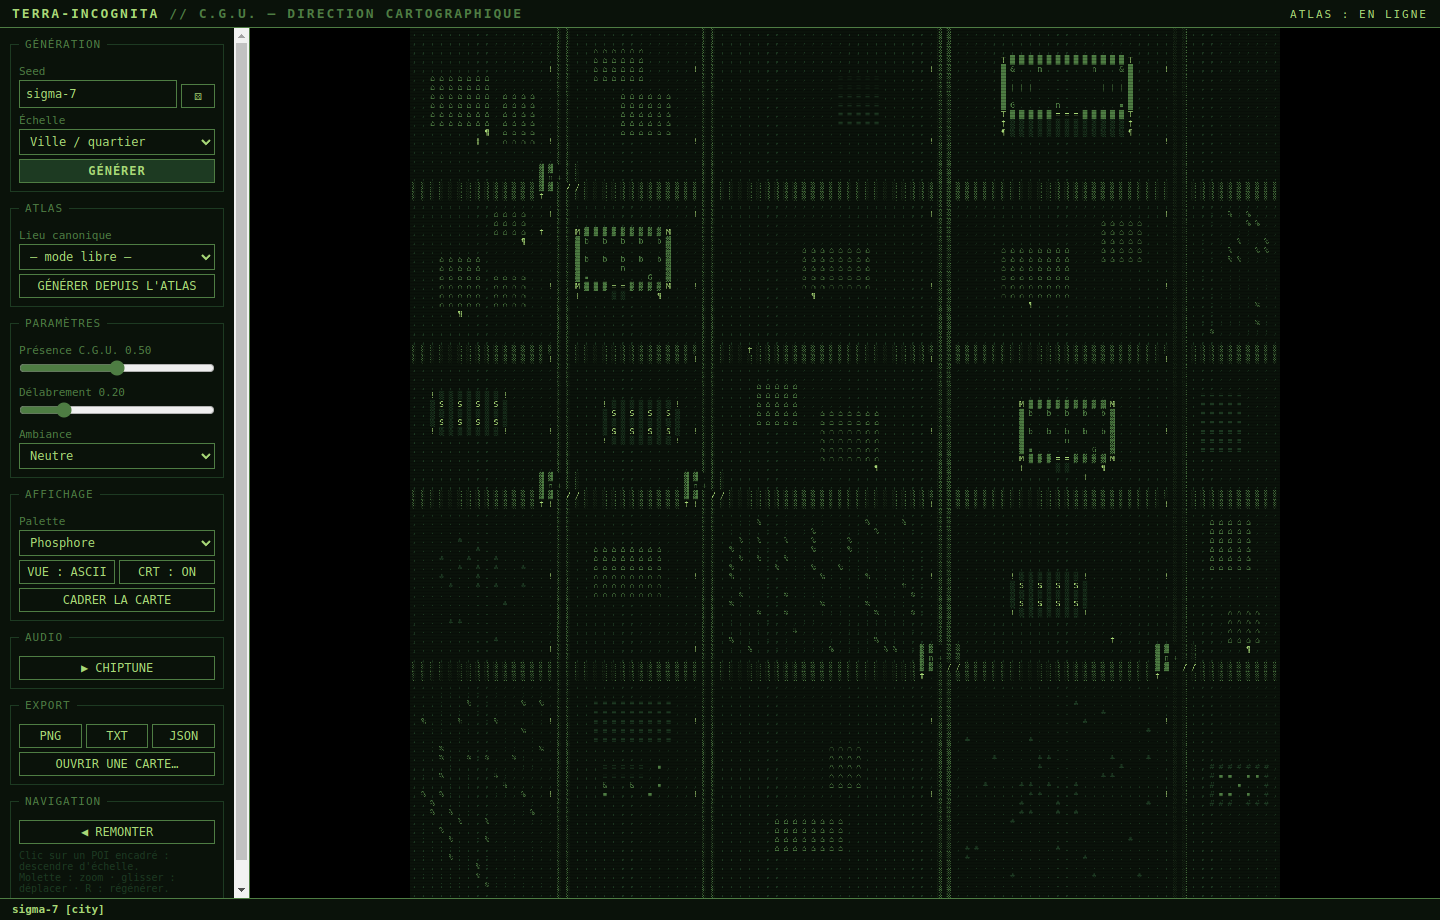
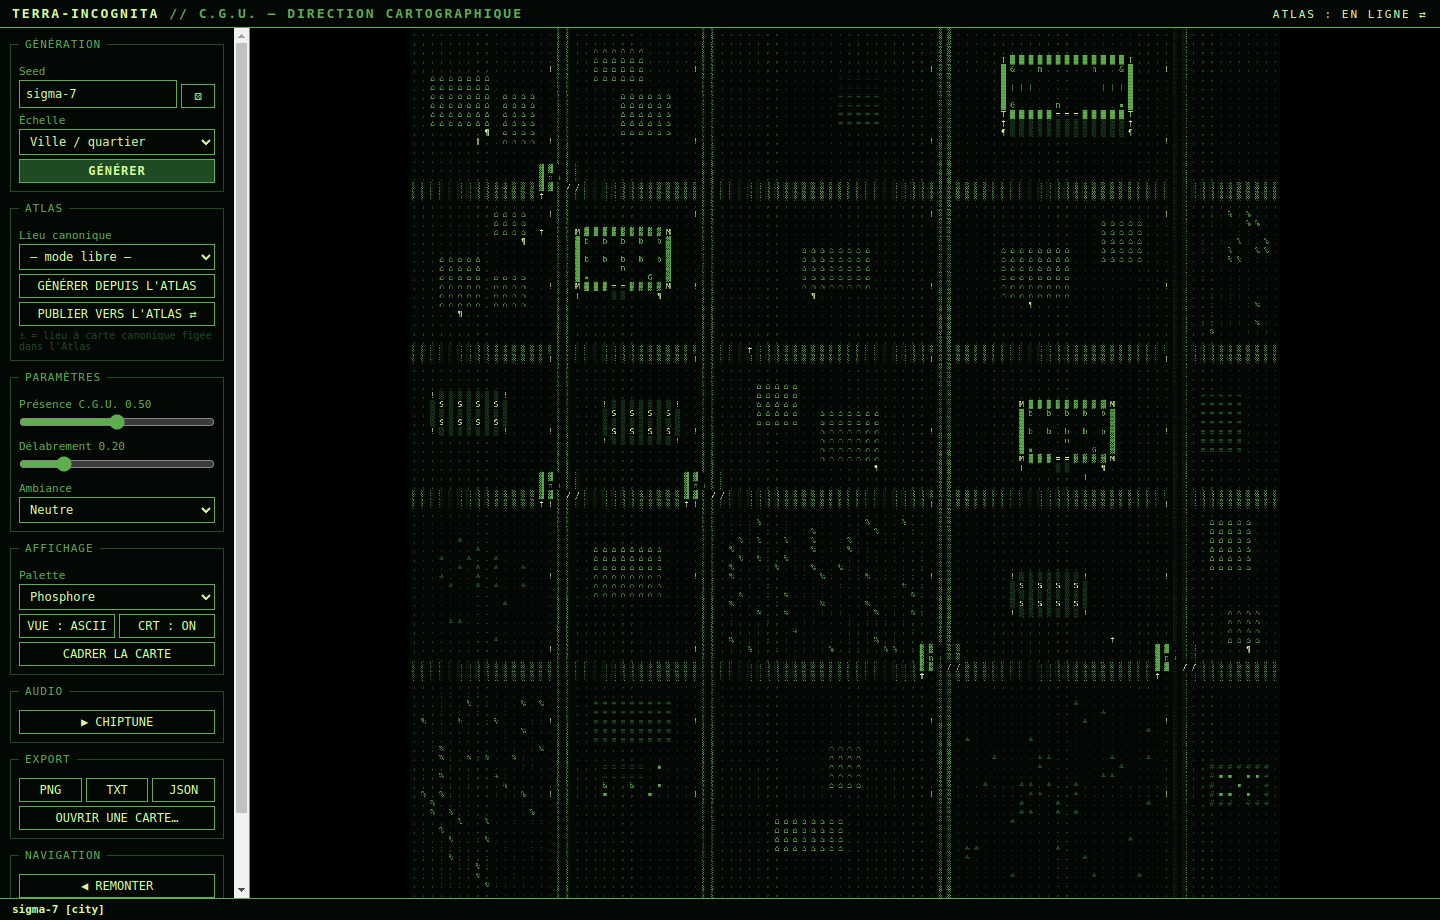
Contraste renforcé : palettes écartées + scanlines CRT allégées
Les 4 tons de chaque palette couvrent une plage plus large (sombres
plus profonds, clairs plus lumineux) — bâtiments, routes et structures
se détachent nettement. Scanlines 0.22 → 0.13. Captures README refaites.

diff --git a/src/core/palettes.ts b/src/core/palettes.ts
@@ -4,12 +4,12 @@ import type { PaletteName } from "../shared/types";
 export type Palette = readonly [string, string, string, string];
 
 export const PALETTES: Record<PaletteName, Palette> = {
-  // Vert CRT phosphore — écran radar C.G.U.
-  phosphore: ["#0a120a", "#1d3a22", "#4e7d43", "#a8d977"],
+  // Vert CRT phosphore — écran radar C.G.U. Tons écartés pour un contraste franc.
+  phosphore: ["#040804", "#1e4a24", "#5fae4e", "#d8ff9a"],
   // Sépia — carte d'état-major jaunie, encre brune.
-  sepia: ["#241809", "#54402a", "#a07d4a", "#e6d3a3"],
+  sepia: ["#170e04", "#5e4223", "#c09154", "#ffedc0"],
   // Blueprint — plan technique blanc sur bleu.
-  blueprint: ["#0b1a30", "#1f4066", "#5585b5", "#dbe9f4"],
+  blueprint: ["#040d1c", "#1d4a7d", "#6fa8d8", "#f4faff"],
 };
 
 export const PALETTE_NAMES: PaletteName[] = ["phosphore", "sepia", "blueprint"];

diff --git a/src/renderer/index.html b/src/renderer/index.html
@@ -76,7 +76,7 @@
     position: absolute;
     inset: 0;
     pointer-events: none;
-    background: repeating-linear-gradient(0deg, rgba(0,0,0,0.22) 0 1px, transparent 1px 3px);
+    background: repeating-linear-gradient(0deg, rgba(0,0,0,0.13) 0 1px, transparent 1px 3px);
   }
   footer {
     border-top: 1px solid var(--c2);
